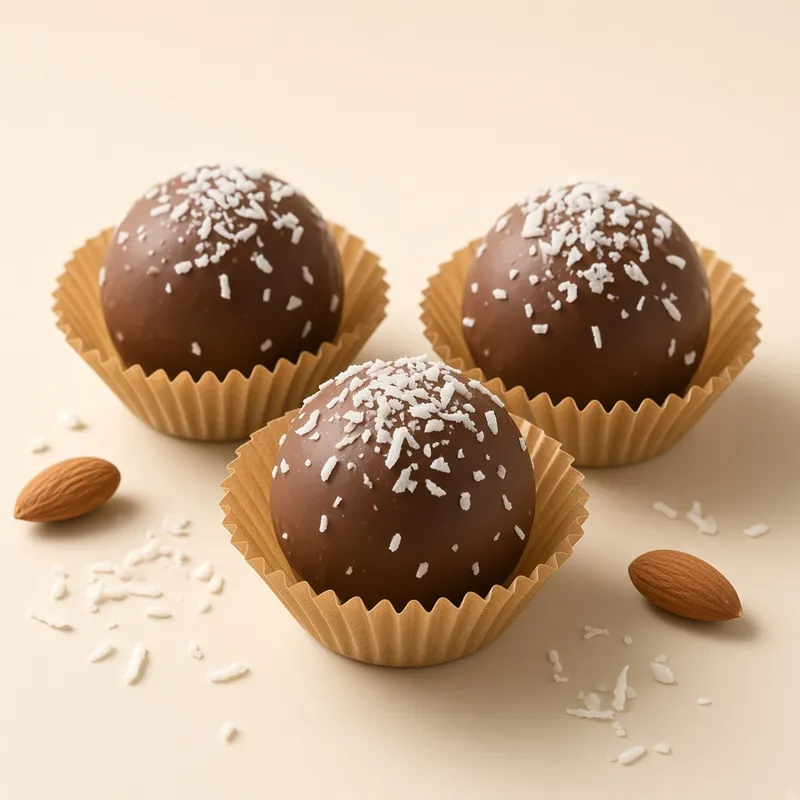
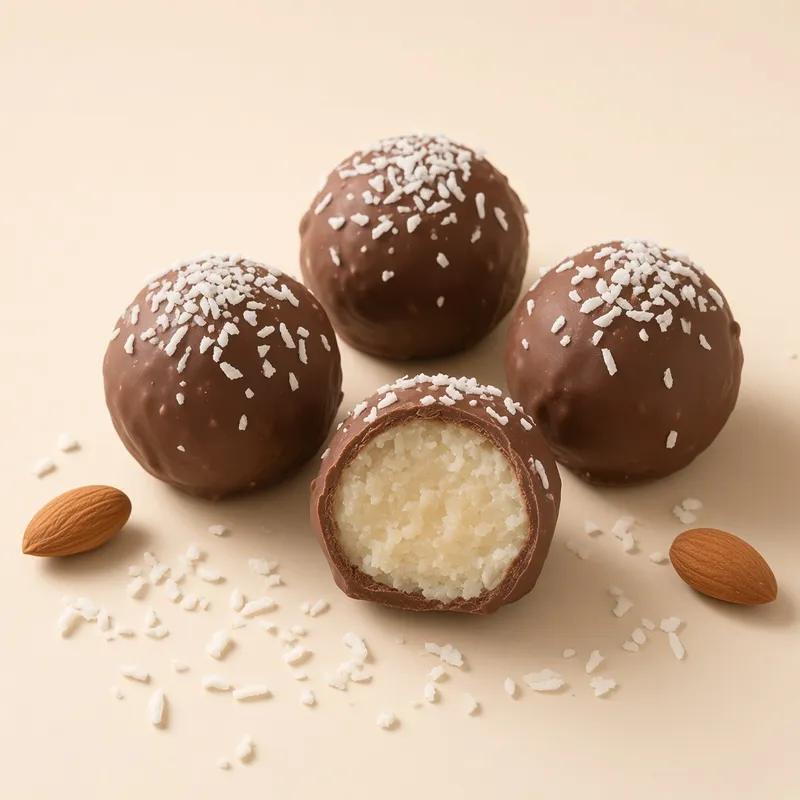
Add edited client photos and Choccor Apparel coming-soon preview
Use Adil-approved energy-bites and coconut-and-almond photography for
product cards and galleries (prior studio shots as gallery #3), and ship
a non-shop apparel preview with homepage band plus /apparel.

diff --git a/storefront/src/components/home/ApparelBand.tsx b/storefront/src/components/home/ApparelBand.tsx
@@ -1,0 +1,81 @@
+"use client";
+
+import Image from "next/image";
+import Link from "next/link";
+import { useSoftReveal } from "@/components/motion/useSoftReveal";
+import { withBasePath } from "@/lib/paths";
+
+const SHOTS = [
+  {
+    src: "/apparel/tee-black.webp",
+    alt: "Black Choccor t-shirt with gold logo",
+  },
+  {
+    src: "/apparel/poster.webp",
+    alt: "Choccor apparel poster — Modern. Strong. Different.",
+  },
+] as const;
+
+export function ApparelBand() {
+  const ref = useSoftReveal<HTMLElement>();
+
+  return (
+    <section
+      id="apparel"
+      ref={ref}
+      className="section-pad border-b border-[var(--line)] bg-charcoal text-cream"
+    >
+      <div className="container-choc grid items-center gap-10 lg:grid-cols-12 lg:gap-14">
+        <div className="lg:col-span-5" data-reveal>
+          <p className="text-[11px] font-medium uppercase tracking-[0.28em] text-gold">
+            Coming soon
+          </p>
+          <h2 className="mt-4 font-display text-[clamp(2.2rem,4vw,3.4rem)] leading-[1.05] tracking-tight text-cream">
+            Choccor Apparel
+          </h2>
+          <p className="mt-3 font-display text-xl italic text-gold/90 sm:text-2xl">
+            Modern. Strong. Different.
+          </p>
+          <p className="mt-5 max-w-md text-sm leading-relaxed text-cream/70">
+            Branded pieces from the Choccor studio — a quiet preview for now.
+            Not available to order yet.
+          </p>
+          <div className="mt-8 flex flex-wrap gap-3">
+            <Link
+              href="/apparel/"
+              className="inline-flex items-center justify-center gap-2 rounded-md border border-cream/35 bg-transparent px-6 py-3.5 text-center text-[12px] font-medium uppercase tracking-[0.22em] text-cream transition hover:bg-cream/10 focus-visible:outline focus-visible:outline-2 focus-visible:outline-offset-2 focus-visible:outline-gold"
+            >
+              View preview
+            </Link>
+            <Link
+              href="/contact/"
+              className="inline-flex items-center justify-center rounded-md px-5 py-3.5 text-[12px] font-medium uppercase tracking-[0.2em] text-gold transition hover:text-cream focus-ring"
+            >
+              Notify me
+            </Link>
+          </div>
+        </div>
+
+        <div
+          className="grid grid-cols-2 gap-3 sm:gap-4 lg:col-span-7"
+          data-reveal
+        >
+          {SHOTS.map((shot) => (
+            <div
+              key={shot.src}
+              className="relative aspect-[3/4] overflow-hidden bg-charcoal/40"
+            >
+              <Image
+                src={withBasePath(shot.src)}
+                alt={shot.alt}
+                fill
+                sizes="(max-width: 1024px) 50vw, 28vw"
+                className="object-cover"
+              />
+            </div>
+          ))}
+        </div>
+      </div>
+    </section>
+  );
+}

diff --git a/storefront/src/app/apparel/page.tsx b/storefront/src/app/apparel/page.tsx
@@ -1,0 +1,82 @@
+import Image from "next/image";
+import Link from "next/link";
+import { withBasePath } from "@/lib/paths";
+import { pageMetadata } from "@/lib/seo";
+
+export const metadata = pageMetadata({
+  title: "Apparel",
+  description:
+    "Choccor Apparel — Modern. Strong. Different. Coming soon.",
+  path: "/apparel/",
+  image: "/apparel/tee-black.webp",
+});
+
+const PORTRAIT = [
+  {
+    src: "/apparel/tee-black.webp",
+    alt: "Black Choccor t-shirt with gold logo",
+    caption: "Black & gold mark",
+  },
+  {
+    src: "/apparel/poster.webp",
+    alt: "Choccor apparel poster — Modern. Strong. Different.",
+    caption: "Campaign preview",
+  },
+] as const;
+
+export default function ApparelPage() {
+  return (
+    <div className="border-b border-[var(--line)]">
+      <div className="container-choc section-pad">
+        <p className="eyebrow">Coming soon</p>
+        <h1 className="display-lg mt-3">Choccor Apparel</h1>
+        <p className="mt-3 font-display text-2xl italic text-cocoa sm:text-3xl">
+          Modern. Strong. Different.
+        </p>
+        <p className="mt-5 max-w-xl text-sm leading-relaxed text-muted">
+          A first look at branded Choccor pieces. Apparel is not for sale yet —
+          no sizes, no cart, just the look.
+        </p>
+
+        <div className="relative mt-12 aspect-[16/9] overflow-hidden bg-cream-deep/40">
+          <Image
+            src={withBasePath("/apparel/poster-16x9.webp")}
+            alt="Choccor apparel wide campaign still"
+            fill
+            sizes="(max-width: 1024px) 100vw, 1100px"
+            className="object-cover"
+            priority
+          />
+        </div>
+
+        <div className="mt-6 grid gap-6 md:grid-cols-2">
+          {PORTRAIT.map((shot) => (
+            <figure key={shot.src}>
+              <div className="relative aspect-[4/5] overflow-hidden bg-cream-deep/40">
+                <Image
+                  src={withBasePath(shot.src)}
+                  alt={shot.alt}
+                  fill
+                  sizes="(max-width: 768px) 100vw, 50vw"
+                  className="object-cover"
+                />
+              </div>
+              <figcaption className="mt-3 text-sm text-muted">
+                {shot.caption}
+              </figcaption>
+            </figure>
+          ))}
+        </div>
+
+        <div className="mt-14 flex flex-wrap items-center gap-4">
+          <Link href="/contact/" className="btn-primary">
+            Notify me
+          </Link>
+          <Link href="/shop/" className="btn-secondary">
+            Shop chocolates
+          </Link>
+        </div>
+      </div>
+    </div>
+  );
+}

diff --git a/storefront/src/lib/catalog.ts b/storefront/src/lib/catalog.ts
@@ -24,6 +24,8 @@ export type ChoccorProduct = {
   category: ProductCategory;
   image: string;
   imageAlt: string;
+  /** Extra PDP gallery shots after the primary image. */
+  gallery?: { src: string; alt: string }[];
   /** Always true until Courtney confirms retail pricing. */
   pricePlaceholder: true;
   /** Customer-facing label while prices are unconfirmed. */
@@ -172,7 +174,18 @@ export const PRODUCTS: ChoccorProduct[] = [
     description: "Coconut and almond in Courtney's handmade chocolate.",
     category: "chocolate",
     image: "/products/coconut-and-almond.webp",
-    imageAlt: "Coconut and Almond chocolate on cream studio background",
+    imageAlt:
+      "Coconut and Almond chocolate truffles on a plate, one cut open",
+    gallery: [
+      {
+        src: "/products/coconut-and-almond-2.webp",
+        alt: "Coconut and Almond truffles — alternate angle",
+      },
+      {
+        src: "/products/coconut-and-almond-studio.webp",
+        alt: "Coconut and Almond chocolate on cream studio background",
+      },
+    ],
     pricePlaceholder: true,
     priceLabel: "Price coming soon",
     featured: true,
@@ -182,10 +195,23 @@ export const PRODUCTS: ChoccorProduct[] = [
     id: "prod_protein_bites",
     handle: "protein-bites",
     title: "Choccor Protein Bites",
-    description: "Handmade chocolate protein bites — a sweet, satisfying bite.",
+    subtitle: "Energy bites",
+    description:
+      "Oat energy bites topped with milk chocolate and a white drizzle — handmade Protein / Energy Bites from Choccor.",
     category: "bites",
-    image: "/products/protein-bites.webp",
-    imageAlt: "Choccor Protein Bites on cream studio background",
+    image: "/products/energy-bites.webp",
+    imageAlt:
+      "Choccor Protein Energy Bites — oat bars with milk chocolate and white drizzle",
+    gallery: [
+      {
+        src: "/products/energy-bites-2.webp",
+        alt: "Choccor Protein Energy Bites — alternate angle",
+      },
+      {
+        src: "/products/protein-bites.webp",
+        alt: "Choccor Protein Bites on cream studio background",
+      },
+    ],
     pricePlaceholder: true,
     priceLabel: "Price coming soon",
     featured: true,

diff --git a/backend/src/scripts/seed-choccor.ts b/backend/src/scripts/seed-choccor.ts
@@ -114,9 +114,10 @@ const PRODUCTS: SeedProduct[] = [
   {
     title: "Choccor Protein Bites",
     handle: "protein-bites",
-    description: "Handmade chocolate protein bites — a sweet, satisfying bite.",
+    description:
+      "Oat energy bites topped with milk chocolate and a white drizzle — handmade Protein / Energy Bites from Choccor.",
     category: "Bites",
-    thumbnail: "/products/protein-bites.webp",
+    thumbnail: "/products/energy-bites.webp",
     metadata: {
       price_placeholder: true,
       price_label: "Price TBC",

diff --git a/storefront/src/components/home/HomeExperience.tsx b/storefront/src/components/home/HomeExperience.tsx
@@ -1,5 +1,6 @@
 "use client";
 
+import { ApparelBand } from "@/components/home/ApparelBand";
 import { Bestsellers } from "@/components/home/Bestsellers";
 import { BrandHero } from "@/components/home/BrandHero";
 import { ByobBand } from "@/components/home/ByobBand";
@@ -52,6 +53,7 @@ export function HomeExperience({
       <JuicesBand products={juices} />
       <StoryTeaser />
       <ReviewsBand />
+      <ApparelBand />
       <NewsletterBand />
     </>
   );

diff --git a/storefront/src/app/products/[handle]/page.tsx b/storefront/src/app/products/[handle]/page.tsx
@@ -50,6 +50,12 @@ function buildGallery(
   related: StorefrontProduct[]
 ) {
   const items = [{ src: product.image, alt: product.imageAlt }];
+  for (const shot of product.gallery ?? []) {
+    if (items.length >= 4) break;
+    if (!items.some((i) => i.src === shot.src)) {
+      items.push({ src: shot.src, alt: shot.alt });
+    }
+  }
   for (const p of related) {
     if (items.length >= 4) break;
     if (!items.some((i) => i.src === p.image)) {

diff --git a/storefront/src/lib/site.ts b/storefront/src/lib/site.ts
@@ -29,6 +29,7 @@ export const NAV_FOOTER = [
   { href: "/shop/", label: "Shop chocolates" },
   { href: "/build-a-box/", label: "Build a box" },
   { href: "/juices/", label: "Natural juices" },
+  { href: "/apparel/", label: "Apparel" },
   { href: "/our-story/", label: "Our story" },
   { href: "/faq/", label: "FAQ" },
   { href: "/contact/", label: "Contact" },

diff --git a/storefront/src/lib/medusa.ts b/storefront/src/lib/medusa.ts
@@ -14,6 +14,10 @@ function withAssetPaths<T extends ChoccorProduct>(product: T): T {
   return {
     ...(rest as T),
     image: withBasePath(product.image),
+    gallery: product.gallery?.map((shot) => ({
+      ...shot,
+      src: withBasePath(shot.src),
+    })),
   };
 }
 

diff --git a/storefront/src/app/sitemap.ts b/storefront/src/app/sitemap.ts
@@ -10,6 +10,7 @@ export default function sitemap(): MetadataRoute.Sitemap {
     "/shop/",
     "/juices/",
     "/build-a-box/",
+    "/apparel/",
     "/our-story/",
     "/contact/",
     "/faq/",
